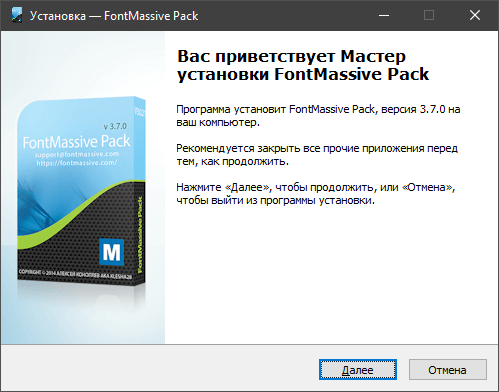
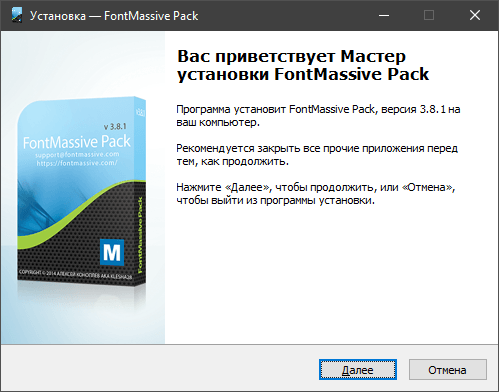
update

diff --git a/docs/index.html b/docs/index.html
@@ -31,8 +31,8 @@
 		<meta property="og:image:width" content="499">
 		<meta property="og:image:height" content="499">
 		<meta property="og:image:type" content="image/jpeg">
-		<link type="text/css" rel="stylesheet" href="https://projectsoft-studionions.github.io/css/plugins.css?hash=8eae29bbf6a447c88828389294e4cbed">
-		<link type="text/css" rel="stylesheet" href="https://projectsoft-studionions.github.io/css/main.css?hash=8eae29bbf6a447c88828389294e4cbed">
+		<link type="text/css" rel="stylesheet" href="https://projectsoft-studionions.github.io/css/plugins.css?hash=7a7d974fba2d4bdaa51a68010da07137">
+		<link type="text/css" rel="stylesheet" href="https://projectsoft-studionions.github.io/css/main.css?hash=7a7d974fba2d4bdaa51a68010da07137">
 	</head>
 	<body>
 		<header>
@@ -43,7 +43,7 @@
 		<main>
 			<div class="wrapper">
 				<div class="github-icons"><a href="https://github.com/ProjectSoft-STUDIONIONS/FontMassivePackInstaller/releases/latest" target="_blank"><img src="https://img.shields.io/github/v/release/ProjectSoft-STUDIONIONS/FontMassivePackInstaller?style=for-the-badge&amp;color=%23007ec6&amp;label=РЕАЛИЗ" alt="Github Latest radioApp-lite"></a><a href="https://github.com/ProjectSoft-STUDIONIONS/FontMassivePackInstaller/blob/master/LICENSE" target="_blank"><img src="https://img.shields.io/github/license/ProjectSoft-STUDIONIONS/FontMassivePackInstaller?style=for-the-badge&amp;color=%2397ca00&amp;label=ЛИЦЕНЗИЯ" alt="Github LICENSE radioApp-lite"></a><a href="https://github.com/ProjectSoft-STUDIONIONS/FontMassivePackInstaller/" target="_blank"><img src="https://img.shields.io/github/repo-size/ProjectSoft-STUDIONIONS/FontMassivePackInstaller?style=for-the-badge&amp;color=%23007ec6&amp;label=РАЗМЕР РЕПОЗИТОРИЯ" alt="Github Repo"></a><a href="https://github.com/ProjectSoft-STUDIONIONS/FontMassivePackInstaller/releases/latest/download/FontMassivePack.exe" download="FontMassivePack.exe" target="_blank"><img src="https://img.shields.io/github/downloads/ProjectSoft-STUDIONIONS/FontMassivePackInstaller/total?style=for-the-badge&amp;color=%2397ca00&amp;label=СКАЧАТЬ" alt="Download FontMassivePack.exe"></a></div>
-				<h1>FontMassive Pack Installer</h1>
+				<h1>FontMassive Pack Installer v3.8.1</h1>
 				<p>FontMassive Pack - Набор программ для работы со шрифтами.</p>
 				<p>Официальная страница FontMassive Pack -  <a href="https://fontmassive.com/" target="_blank">https://fontmassive.com/</a>
 				</p>
@@ -80,7 +80,7 @@
 			<div><img src="https://mc.yandex.ru/watch/56381902" style="position:absolute; left:-9999px;" alt=""></div>
 		</noscript>
 		<!-- /Yandex.Metrika counter-->
-		<script src="https://projectsoft-studionions.github.io/js/plugins.js?hash=8eae29bbf6a447c88828389294e4cbed" type="text/javascript"></script>
-		<script src="https://projectsoft-studionions.github.io/js/main.js?hash=8eae29bbf6a447c88828389294e4cbed" type="text/javascript"></script>
+		<script src="https://projectsoft-studionions.github.io/js/plugins.js?hash=7a7d974fba2d4bdaa51a68010da07137" type="text/javascript"></script>
+		<script src="https://projectsoft-studionions.github.io/js/main.js?hash=7a7d974fba2d4bdaa51a68010da07137" type="text/javascript"></script>
 	</body>
 </html>

diff --git a/page.js b/page.js
@@ -115,7 +115,7 @@ module.exports = function(grunt){
 							"page": "FontMassivePackInstaller",
 							"download": "FontMassivePack.exe",
 							"title": "FontMassive Pack Installer | ProjectSoft GitHub Pages",
-							"h1title": "FontMassive Pack Installer",
+							"h1title": "FontMassive Pack Installer v" + pkg.version,
 							"description": "Очень хороший набор программ. Особенно пользуюсь FontMassive и FonTemp, т. к. большую часть работаю с шаблонами, где используются сторонние шрифты, которых нет в системе.",
 							"keywords": "ProjectSoft, STUDIONIONS, ProjectSoft-STUDIONIONS,FontMassive Pack Installer, FontMassivePack",
 							"nickname": "ProjectSoft",
